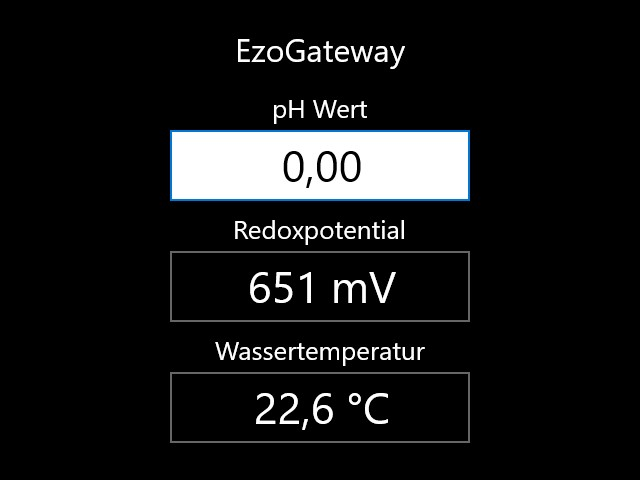
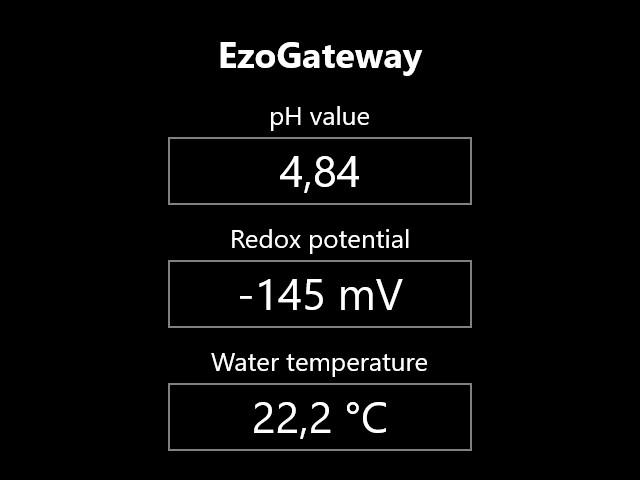
Style up built-in GUI

diff --git a/source/EzoGateway/MainPage.xaml b/source/EzoGateway/MainPage.xaml
@@ -10,13 +10,20 @@
     
     <Grid>
         <StackPanel VerticalAlignment="Center" HorizontalAlignment="Center" Padding="10,10,10,10">
-            <TextBlock HorizontalAlignment="Center" Text="EzoGateway" TextWrapping="Wrap" VerticalAlignment="Top" FontSize="32" Padding="0,0,0,20"/>
-            <TextBlock x:Name="tbl_Value1" HorizontalAlignment="Center" Text="tbl_Value1" TextWrapping="Wrap" VerticalAlignment="Top" FontSize="26"/>
-            <TextBox x:Name="tbx_Value1" HorizontalAlignment="Center" Text="tbx_Value1" VerticalAlignment="Top" Margin="0,5,0,10" FontSize="44" IsReadOnly="True" TextAlignment="Center" Width="300"/>
-            <TextBlock x:Name="tbl_Value2" HorizontalAlignment="Center" Text="tbl_Value2" TextWrapping="Wrap" VerticalAlignment="Top" FontSize="26"/>
-            <TextBox x:Name="tbx_Value2" HorizontalAlignment="Center" Text="tbx_Value2" VerticalAlignment="Top" Margin="0,5,0,10" FontSize="44" IsReadOnly="True" TextAlignment="Center" Width="300"/>
-            <TextBlock x:Name="tbl_Value3" HorizontalAlignment="Center" Text="tbl_Value3" TextWrapping="Wrap" VerticalAlignment="Top" FontSize="26"/>
-            <TextBox x:Name="tbx_Value3" HorizontalAlignment="Center" Text="tbx_Value3" VerticalAlignment="Top" Margin="0,5,0,10" FontSize="44" IsReadOnly="True" TextAlignment="Center" Width="300"/>
+            <TextBlock HorizontalAlignment="Center" Text="EzoGateway" TextWrapping="Wrap" VerticalAlignment="Top" FontSize="36" Padding="0,0,0,5" FontWeight="Bold"/>
+            <TextBlock x:Name="tbl_Value1" HorizontalAlignment="Center" Text="tbl_Value1" TextWrapping="Wrap" VerticalAlignment="Top" Margin="0,15,0,5" FontSize="26"/>
+            <Border BorderThickness="2" BorderBrush="Gray">
+                <TextBlock x:Name="tbx_Value1" HorizontalAlignment="Center" Text="tbx_Value1" VerticalAlignment="Top" Margin="0,0,0,5" FontSize="44" TextAlignment="Center" Width="300"/>
+            </Border>
+            <TextBlock x:Name="tbl_Value2" HorizontalAlignment="Center" Text="tbl_Value2" TextWrapping="Wrap" VerticalAlignment="Top" Margin="0,15,0,5" FontSize="26"/>
+            <Border BorderThickness="2" BorderBrush="Gray">
+                <TextBlock x:Name="tbx_Value2" HorizontalAlignment="Center" Text="tbx_Value2" VerticalAlignment="Top" Margin="0,0,0,5" FontSize="44" TextAlignment="Center" Width="300"/>
+            </Border>
+            <TextBlock x:Name="tbl_Value3" HorizontalAlignment="Center" Text="tbl_Value3" TextWrapping="Wrap" VerticalAlignment="Top" Margin="0,15,0,5" FontSize="26"/>
+            <Border BorderThickness="2" BorderBrush="Gray">
+                <TextBlock x:Name="tbx_Value3" HorizontalAlignment="Center" Text="tbx_Value3" VerticalAlignment="Top" Margin="0,0,0,5" FontSize="44" TextAlignment="Center" Width="300"/>
+            </Border>
         </StackPanel>
+        
     </Grid>
 </Page>

diff --git a/source/EzoGateway/MainPage.xaml.cs b/source/EzoGateway/MainPage.xaml.cs
@@ -43,9 +43,9 @@ namespace EzoGateway
             m_Controller.PropertyChanged += Controller_PropertyChanged;
 
             //Test GUI
-            tbl_Value1.Text = "pH Wert";
-            tbl_Value2.Text = "Redoxpotential";
-            tbl_Value3.Text = "Wassertemperatur";
+            tbl_Value1.Text = "pH value";
+            tbl_Value2.Text = "Redox potential";
+            tbl_Value3.Text = "Water temperature";
         }
 
         private void Controller_PropertyChanged(object sender, System.ComponentModel.PropertyChangedEventArgs e)
